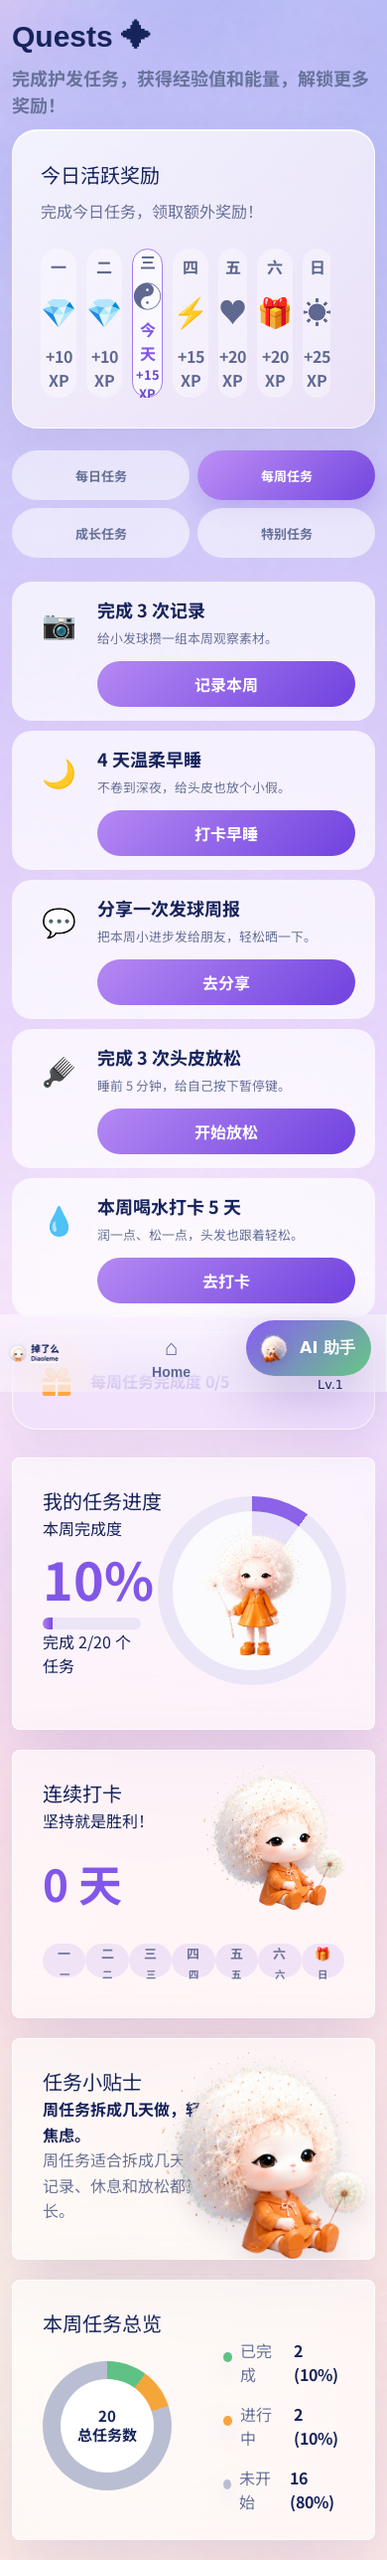
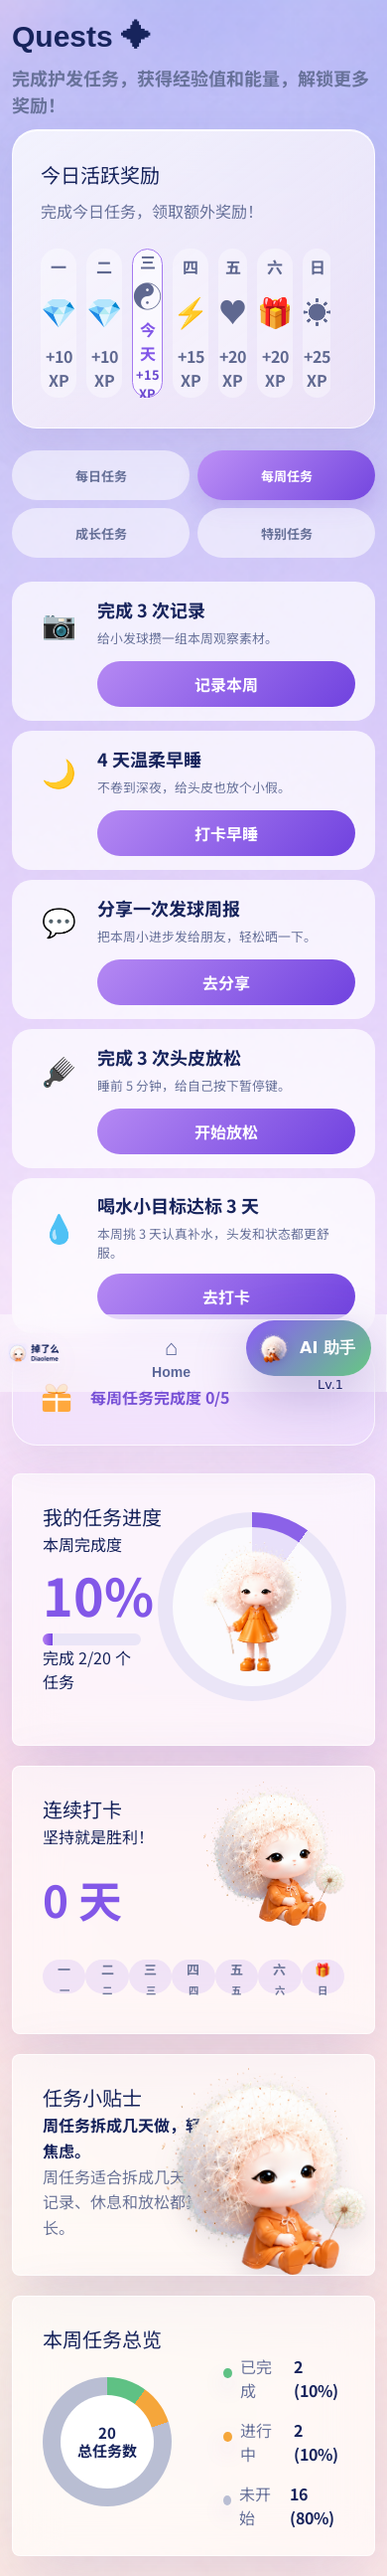
fix: AIFA-108 第 5 条任务改用设计监督锁定文案
每周喝水 3 天 / 成长轻松对比 / 特别治愈便签，对齐 PM 派单口径。

diff --git a/diaoleme/src/prototype/controllers/questsController.ts b/diaoleme/src/prototype/controllers/questsController.ts
@@ -93,21 +93,21 @@ const QUEST_CONFIG: Record<Exclude<QuestCategory, 'daily'>, QuestDefinition[]> =
     { id: 'weekly-sleep-4', category: 'weekly', icon: '🌙', title: '4 天温柔早睡', description: '不卷到深夜，给头皮也放个小假。', current: 0, target: 4, reward: 40, actionLabel: '打卡早睡' },
     { id: 'weekly-share', category: 'weekly', icon: '💬', title: '分享一次发球周报', description: '把本周小进步发给朋友，轻松晒一下。', current: 0, target: 1, reward: 25, actionLabel: '去分享' },
     { id: 'weekly-massage', category: 'weekly', icon: '🪮', title: '完成 3 次头皮放松', description: '睡前 5 分钟，给自己按下暂停键。', current: 0, target: 3, reward: 30, actionLabel: '开始放松' },
-    { id: 'weekly-water-5', category: 'weekly', icon: '💧', title: '本周喝水打卡 5 天', description: '润一点、松一点，头发也跟着轻松。', current: 0, target: 5, reward: 30, actionLabel: '去打卡' },
+    { id: 'weekly-water-3', category: 'weekly', icon: '💧', title: '喝水小目标达标 3 天', description: '本周挑 3 天认真补水，头发和状态都更舒服。', current: 0, target: 3, reward: 30, actionLabel: '去打卡' },
   ],
   growth: [
     { id: 'growth-first-report', category: 'growth', icon: '🌱', title: '生成第一份种子报告', description: '上传照片后获得你的第一枚趣味称号。', current: 0, target: 1, reward: 45, actionLabel: '去扫描' },
     { id: 'growth-7-day', category: 'growth', icon: '🔥', title: '连续记录 7 天', description: '把小习惯养成小成就，不求完美只求坚持。', current: 0, target: 7, reward: 80, actionLabel: '点亮进度' },
     { id: 'growth-unlock-style', category: 'growth', icon: '🎀', title: '解锁一个新造型', description: '给小发球换套新皮肤，奖励认真生活的你。', current: 0, target: 1, reward: 60, actionLabel: '去解锁' },
     { id: 'growth-history', category: 'growth', icon: '📒', title: '查看一次历史趋势', description: '回头看看，最近的自己已经很棒啦。', current: 0, target: 1, reward: 25, actionLabel: '看趋势' },
-    { id: 'growth-diary', category: 'growth', icon: '📝', title: '写一篇护发小日记', description: '记一记今天的状态，成长感会更看得见。', current: 0, target: 1, reward: 35, actionLabel: '去写日记' },
+    { id: 'growth-compare', category: 'growth', icon: '🔍', title: '完成一次轻松对比', description: '把最近两次记录放一起看看，发现一点小变化就够。', current: 0, target: 1, reward: 40, actionLabel: '去对比' },
   ],
   special: [
     { id: 'special-spring', category: 'special', icon: '🌸', title: '春风吹发季签到', description: '参与 8.1–8.31 赛季限时活动，领取赛季能量。', current: 0, target: 1, reward: 50, actionLabel: '领取能量' },
     { id: 'special-mood', category: 'special', icon: '😊', title: '写下今日心情弹幕', description: '把压力吐槽给小发球听，轻轻放过自己。', current: 0, target: 1, reward: 30, actionLabel: '写一句' },
     { id: 'special-buddy', category: 'special', icon: '☁', title: '和 Buddy 互动一次', description: '摸摸小发球，让陪伴感上线。', current: 0, target: 1, reward: 35, actionLabel: '去互动' },
     { id: 'special-community', category: 'special', icon: '✨', title: '逛逛社区治愈帖', description: '看看大家的小妙招，找到一点轻松感。', current: 0, target: 1, reward: 25, actionLabel: '去看看' },
-    { id: 'special-photo', category: 'special', icon: '🎞', title: '晒一张本周发色光影', description: '随便拍一张好看光影，轻松参与就行。', current: 0, target: 1, reward: 30, actionLabel: '去拍照' },
+    { id: 'special-sticky', category: 'special', icon: '📌', title: '给自己贴一张治愈便签', description: '写一句今天对自己好的话，存进小日记。', current: 0, target: 1, reward: 30, actionLabel: '去贴便签' },
   ],
 }
 
